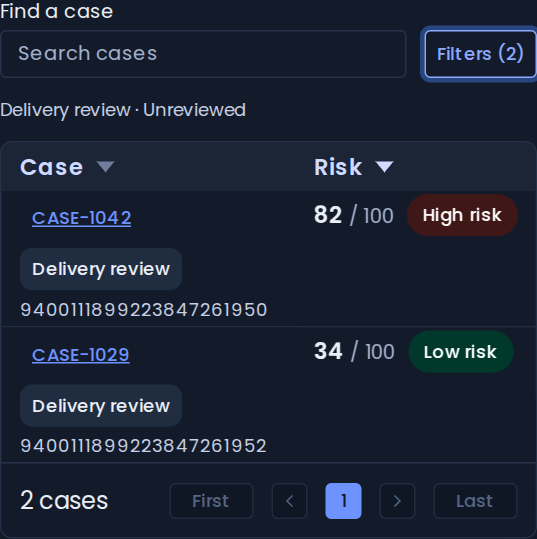
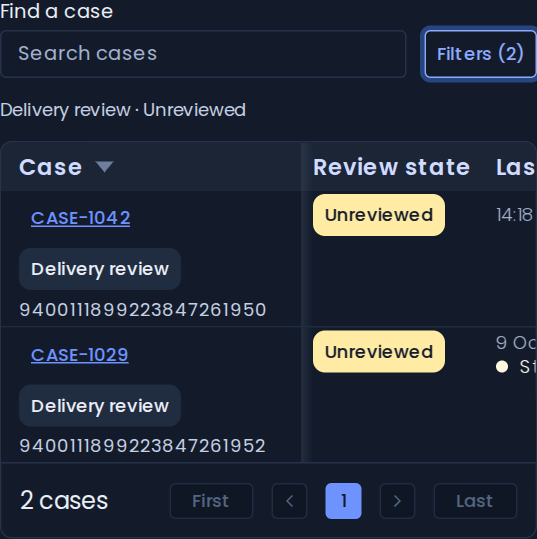
fix(investigation): give review stages semantic colors

diff --git a/easy-ui-react/src/InvestigationWorkspace/recipes/InvestigationQueue.tsx b/easy-ui-react/src/InvestigationWorkspace/recipes/InvestigationQueue.tsx
@@ -11,7 +11,7 @@ import {
 import { TextField } from "../../TextField";
 import { Select } from "../../Select";
 import { Button } from "../../Button";
-import { Badge } from "../../Badge";
+import { Badge, type BadgeVariant } from "../../Badge";
 import { Popover } from "../../Popover";
 import styles from "./InvestigationRecipes.module.scss";
 
@@ -35,6 +35,16 @@ export type InvestigationQueueProps = {
   isLoading?: boolean;
   error?: string;
   onRetry?: () => void;
+};
+
+// Review completion is workflow progress, independent of the recorded outcome.
+const reviewStageVariants: Record<
+  InvestigationCase["reviewStatus"],
+  BadgeVariant
+> = {
+  Unreviewed: "warning",
+  "In review": "primary",
+  Reviewed: "success",
 };
 
 /** Application recipe: replace the local filters/paging with your query layer as needed. */
@@ -330,7 +340,10 @@ export function InvestigationQueue({
                 accessibilityLabel={`Risk score for ${row.id}`}
               />
             ) : key === "reviewStatus" ? (
-              <Badge variant="inverse" accessibilityLabel="Review state:">
+              <Badge
+                variant={reviewStageVariants[row.reviewStatus]}
+                accessibilityLabel="Review state:"
+              >
                 {row.reviewStatus}
               </Badge>
             ) : (

diff --git a/easy-ui-react/src/Badge/Badge.module.scss b/easy-ui-react/src/Badge/Badge.module.scss
@@ -83,7 +83,7 @@
 // prettier-ignore
 .variantSuccess {
   @include component-token("badge", "primary.color.background", design-token("color.positive.600"));
-  @include component-token("badge", "primary.color.text", design-token("color.neutral.000"));
+  @include component-token("badge", "primary.color.text", design-token("color.text.on-status"));
   @include component-token("badge", "secondary.color.background", design-token("color.positive.100"));
   @include component-token("badge", "secondary.color.text", design-token("color.primary.800"));
 }
